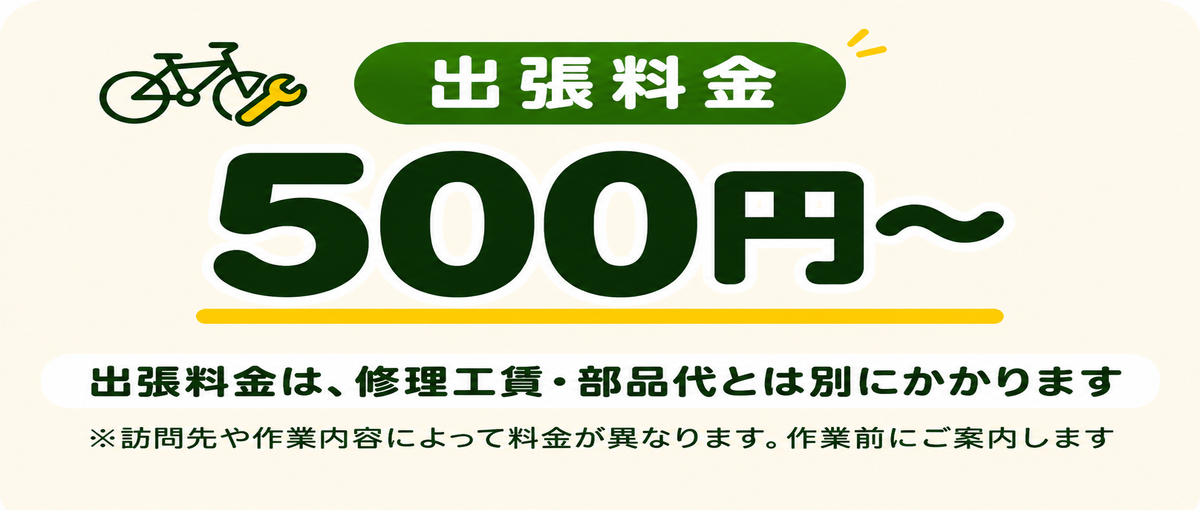
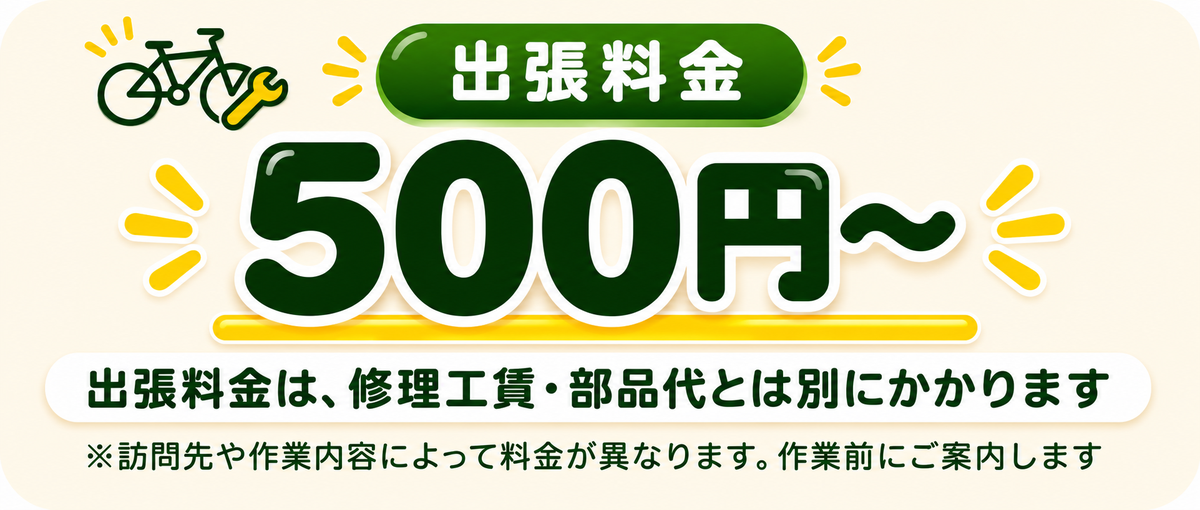
Add files via upload

Changed region(s): [[0.0308, 0.0294, 0.9558, 0.9412], [0.9558, 0.7353, 0.9867, 0.7941]]

diff --git a/visit-repair.html b/visit-repair.html
@@ -1027,6 +1027,20 @@ body{background:#fbfaf6}
   }
 }
 
+
+/* Only the bottom phone number on smartphone: bold, clean figures */
+@media (max-width:700px){
+ .mobile-reference-root .ref-phone-number{
+   font-family:"Arial Black","Helvetica Neue",Arial,sans-serif !important;
+   font-weight:900 !important;
+   font-size:clamp(28px,8.3vw,43px) !important;
+   letter-spacing:.015em !important;
+   line-height:1.2 !important;
+   font-variant-numeric:tabular-nums lining-nums !important;
+   text-shadow:0 1px 0 #ffffff80;
+ }
+}
+
 </style>
 </head><body>
 <div class="page">
